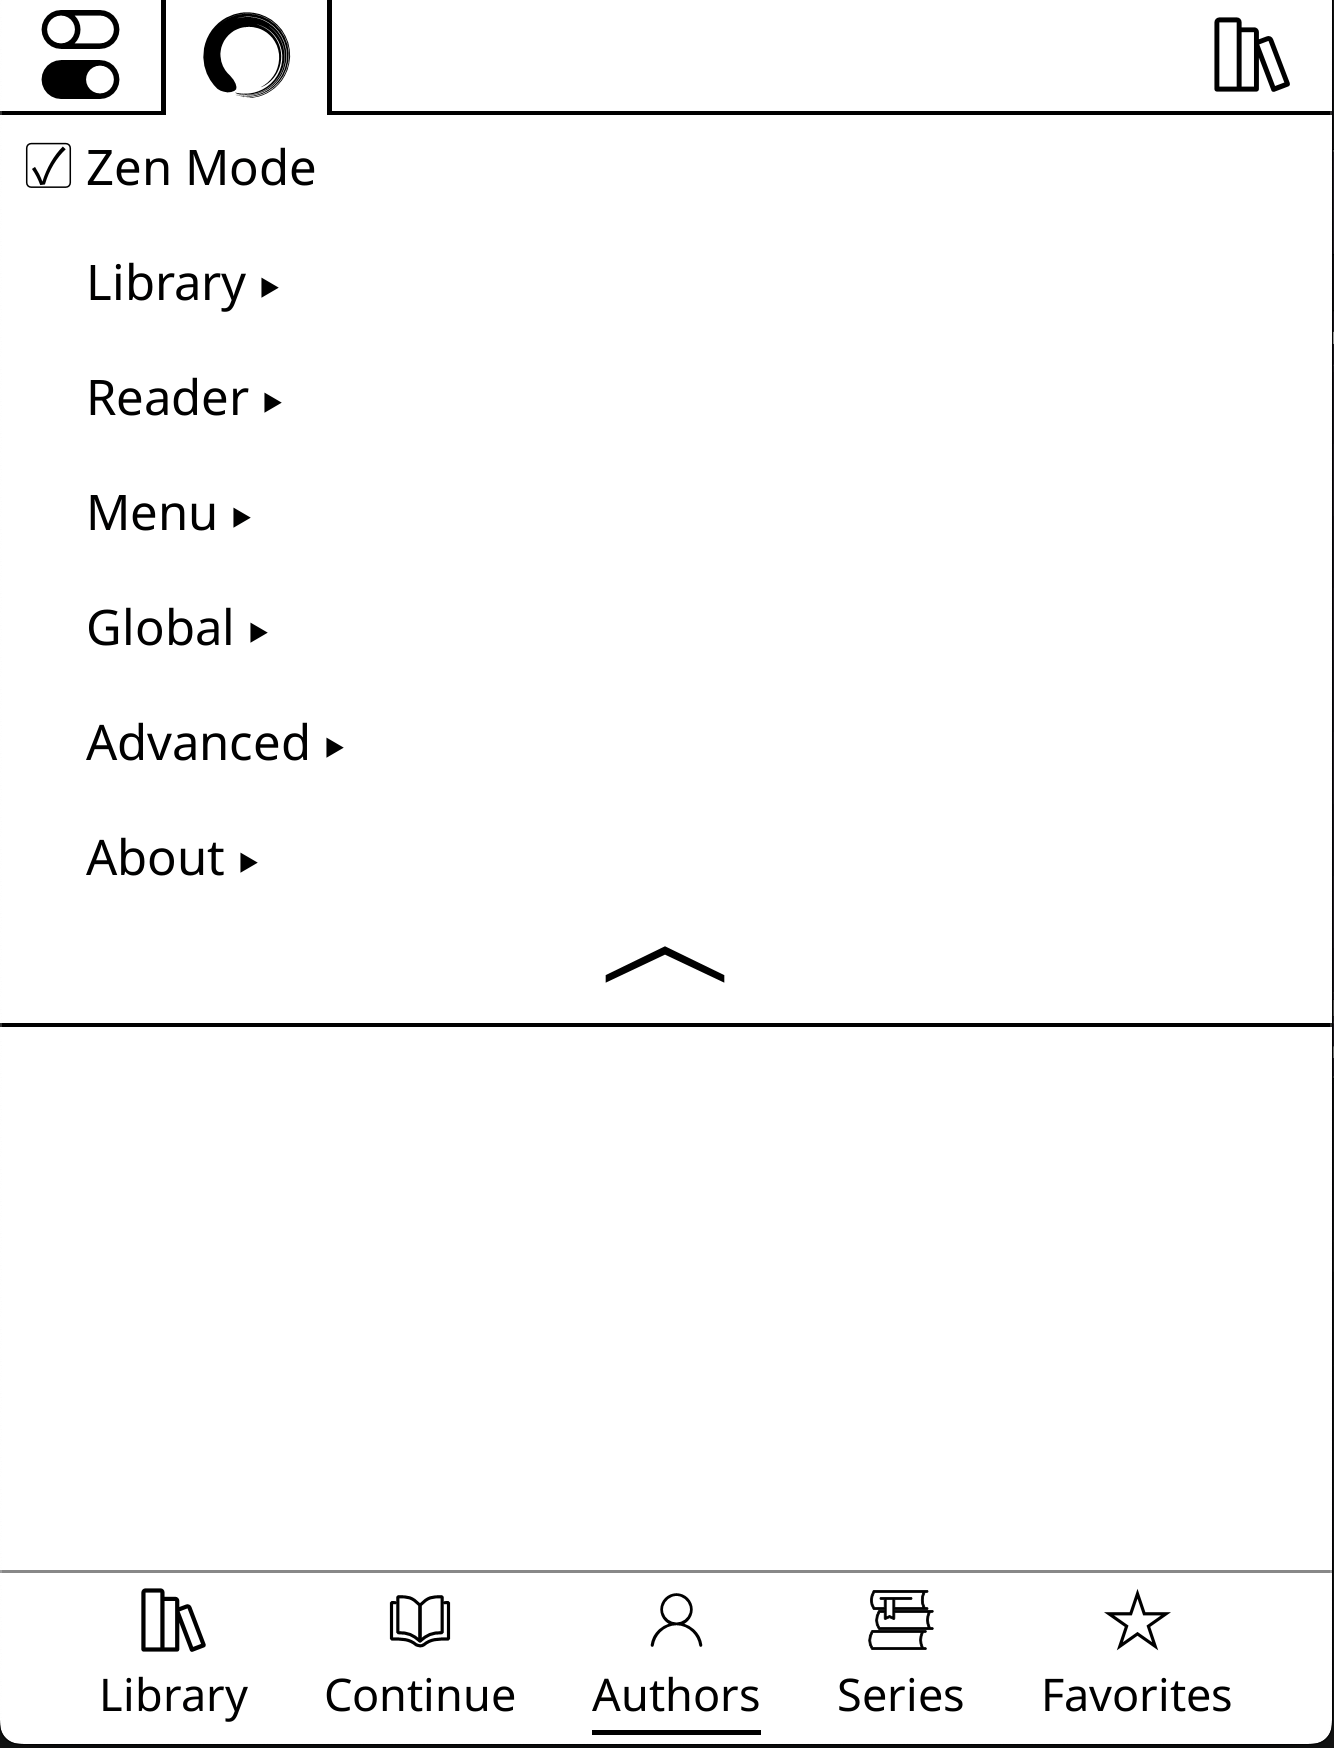
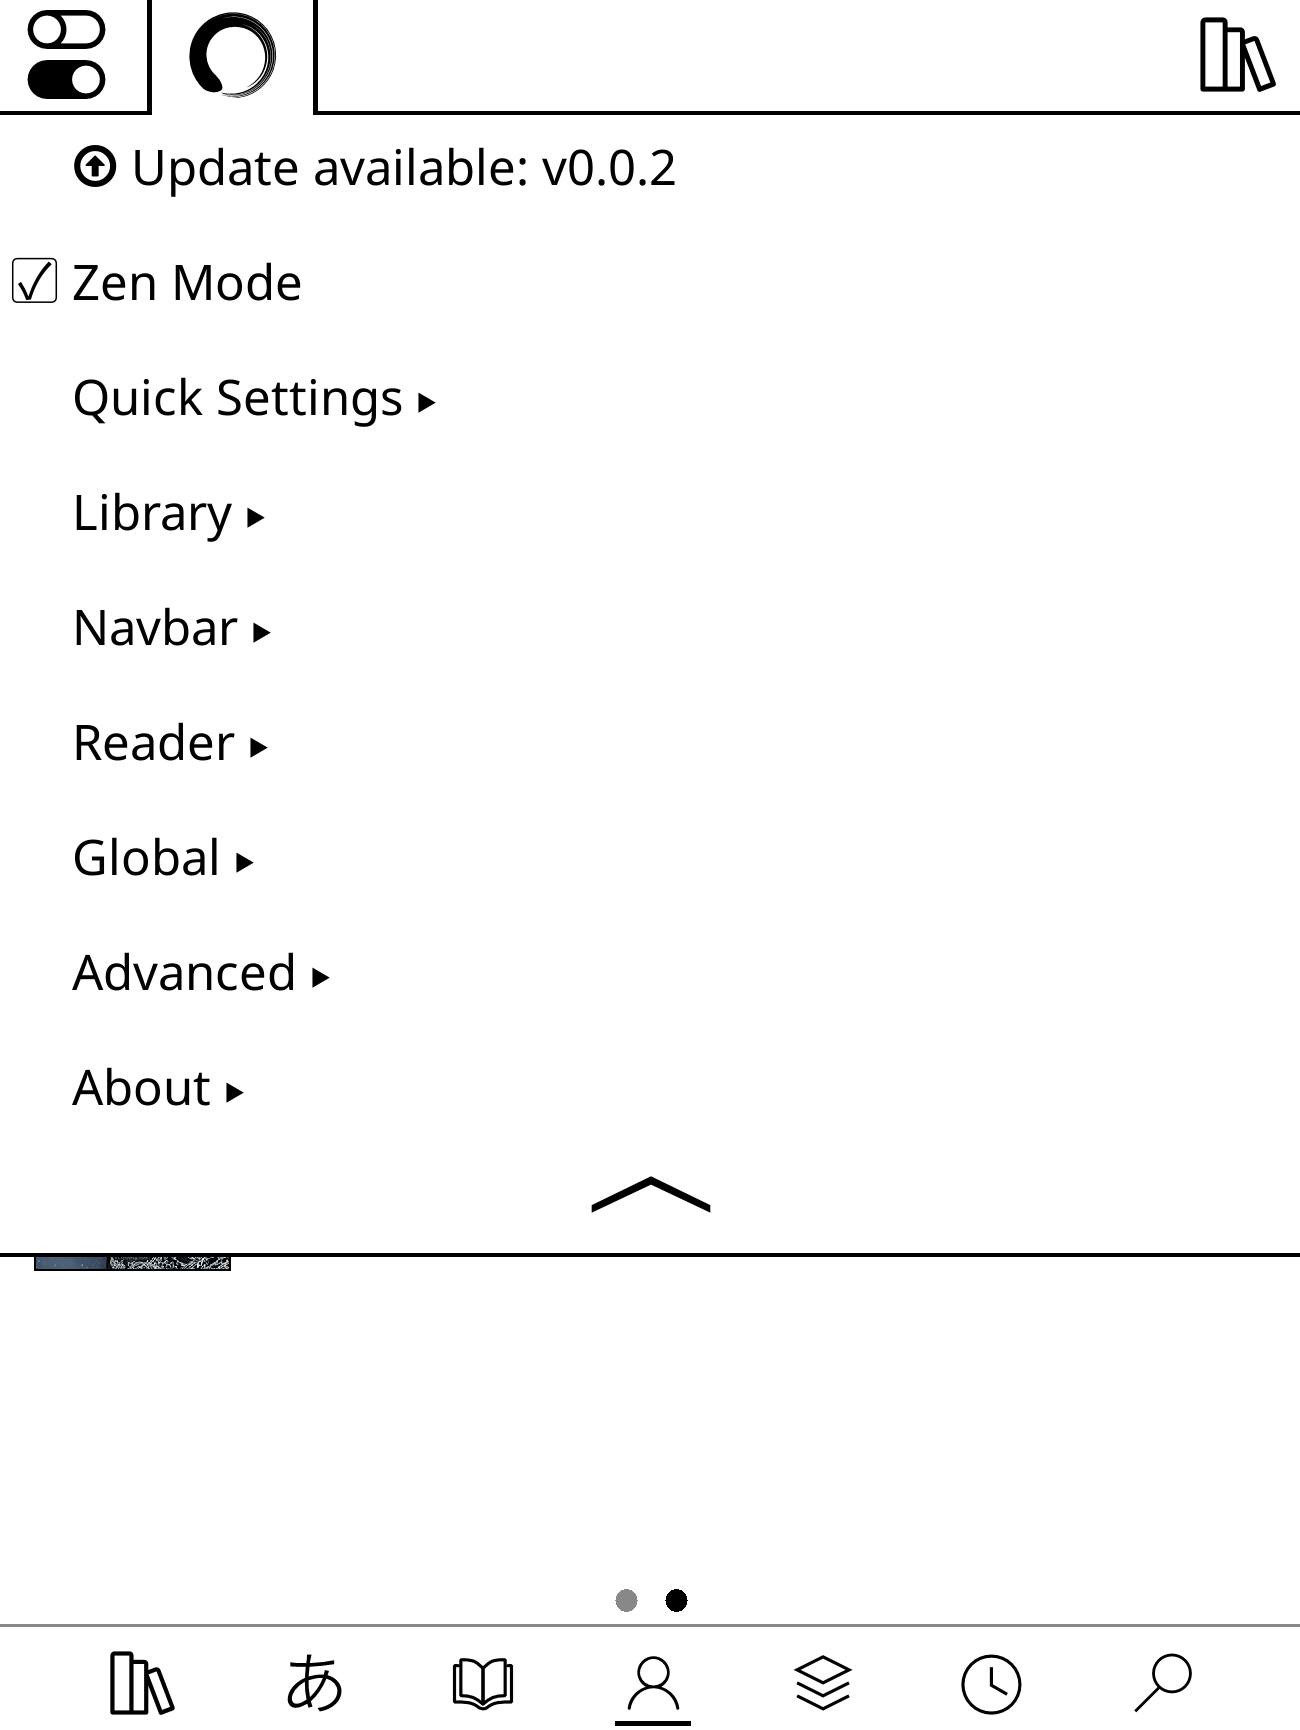
update readme

diff --git a/README.md b/README.md
@@ -7,13 +7,13 @@
 
 <h1 align="center">Zen UI</h1>
 
-A clean and minimal UI for [KOReader](https://github.com/koreader/koreader). Zen UI removes visual clutter and replaces it with a streamlined, intuitive, and distraction-free e-reader experience.
+<p align="center">A clean, minimal UI for KOReader. </p>
 
 ## Philosophy
 
-Zen UI is built on one idea: **less is more.** Every feature either removes noise or adds something genuinely useful. All settings are conveniently organized in one place. The minimal UI loads fast, stays out of the way, and aims to make your reading more enjoyable.  
+Zen UI is built around a simple idea: less is more. Everything in Zen UI was meticulously designed either to remove clutter or add clear value. The interface stays fast, light, and focused on making reading more enjoyable.
 
-Throughout development, three things were non-negotiable: **performance**, **stability**, and **battery life**. Patches are applied only when their feature is enabled. On e-ink devices where every refresh costs power and every frame counts, that matters.
+Throughout development, three things were non-negotiable: **performance**, **stability**, and **ease of use**. Every feature was tuned for battery efficiency and fluid responsiveness.
 
 ## Speed & Performance
 
@@ -21,53 +21,58 @@ Zen UI is built to be lightweight and efficient. Tested with libraries containin
 
 ## Features
 
-### Zen Mode
+### Quick Settings Panel
+A swipe-down menu accessible anywhere containing all the controls you frequently use — brightness, warmth, WiFi, night mode, sleep, rotation, and more. Fully configurable.
 
-Strips down the default KOReader interfaces to their bare essentials.
+<img src="./images/quickstart/onboarding/quicksettings.png" width="500" alt="Quick Settings">
 
-<img src="./images/quickstart/onboarding/zen_mode.png" width="175" alt="Zen Mode">
+### Library
+<div style="display: flex; gap: 10px; justify-content: center;">
+      <img src="./images/quickstart/onboarding/library_covers_full.png" width="350" height="auto" alt="Library Covers">
+      <img src="./images/quickstart/onboarding/library_list_full.png" width="350" height="auto" alt="Library List">
+</div>
+
+- Clean mosaic and list view options maximizing the size of your book covers with many options
+- Book cover gallery for folder thumbnails
+- Configurable sorting, items per page, and landscape/portrait layout
+- Zen pagination bar: A subtle, minimal page progress indicator
+- A streamlined context menu in the file browser. Tap and hold to quickly access details, fullscreen cover art, read status and more.
+
+<div style="display: flex; gap: 10px; justify-content: center;">
+<img src="./images/quickstart/onboarding/context_menu.png" width="350" height="auto" alt="Context Menu">
+<img src="./images/quickstart/onboarding/library_context.png" width="350" height="auto" alt="Library Context">
+</div>
 
 ### Bottom Navigation Bar
 A clean, tab-based navigation bar at the bottom of the file browser. Configurable tabs (Library, Manga, Favorites, Authors, History, Collections, and more), with optional labels, custom icons, and sortable layout.
 
 <img src="./images/quickstart/onboarding/navbar.png" width="500" alt="Navigation Bar">
 
-### Quick Settings Panel
-A swipe-down panel accessible everywhere for the controls you actually use — brightness, warmth, WiFi, night mode, sleep, rotation, and more. Fully configurable: reorder, show/hide individual buttons.
+### Zen Mode
 
-<img src="./images/quickstart/onboarding/quicksettings.png" width="500" alt="Quick Settings">
+Strips down the default KOReader interfaces to their bare essentials. - Hides all the default menus from KOReader leaving only a single unified Zen UI settings tab.
+
+<img src="./images/quickstart/onboarding/zen_mode.png" width="175" alt="Zen Mode">
+
 
 ### Custom Status Bars
-A minimal status bar in the reader and a more extensive one in the Filebrowser. Shows only what you want: time, battery, progress, disk space, RAM — all optional and individually toggled.
+A minimal status bar in the reader and a more simple yet more detailed one in the Filebrowser. Show only what you want: time, battery, disk space, custom text — all optional and individually toggled.
 
 <img src="./images/quickstart/onboarding/status_bar.png" width="500" alt="Status Bar">
 
-### File Browser Improvements
-- Cover images as folder thumbnails
-- Clean mosaic and list view options with configurable density
-- Hide the "up folder" entry for a cleaner look
-- Remove underlines from file list items
-- Configurable sort order, items per page, and landscape/portrait layout
-- Zen pagination bar: A subtle, minimal page progress indicator — no numbers, no noise.
-- A streamlined context menu in the file browser with quick access to read status, favorites, move, rename, and delete (optional).
-
-<img src="./images/quickstart/onboarding/library_covers_full.png" width="500" alt="Library Covers">
-<img src="./images/quickstart/onboarding/library_list_full.png" width="500" alt="Library List">
-
-<img src="./images/quickstart/onboarding/context_menu.png" width="500" alt="Context Menu">
-<img src="./images/quickstart/onboarding/library_context.png" width="500" alt="Library Context">
-
 ### Reader Improvements
-- An unobtrusive clock overlay inside the reader. Toggle 12/24-hour format independently of the system setting.
-- Disable bottom menu, prevent unwanted changes to font size, margin etc
+- Custom page browser (similar to Kindle's) for scrubbing through pages, searching the book, quickly changing the font size.
+- Disable bottom menu, prevent unwanted changes to font size, 
+- Margin gaurd preventing accidentally gestures while holding the edge of the device by it's touchscreen.
+- Preset footer progress bars. Pick from a hadful of predesigned reader progress bars or create and save your own. Switch presets with a single tap.
 
 <img src="./images/quickstart/onboarding/reader.png" width="500" alt="Reader">
 
-### Built-in Updater
-Check for and install new Zen UI releases directly from the settings menu, without leaving KOReader.
-
-## Unified Settings Tab 
+## Unified Settings 
 - Pulled the most important settings from various locations into a single, more streamlined settings tab
+- Settings are grouped by feature area (File Browser, Navbar, Quick Settings, Status Bar, Reader).
+- Most features can be toggled independently, some reasonable defaults have been selected.
+- Update Zen UI directly from settings without ever leaving KOReader or plugging in to a computer.
 
 <img src="./images/quickstart/onboarding/zen_ui_settings.png" width="500" alt="Zen UI Settings">
 
@@ -90,10 +95,6 @@ Check for and install new Zen UI releases directly from the settings menu, witho
 5. Open **Zen UI Settings** from the file browser menu or the top menu to configure features.
 
 > The final path should look like: `.../plugins/zen_ui.koplugin/main.lua`  
-
-## Settings
-
-Settings are grouped by feature area (File Browser, Navbar, Quick Settings, Status Bar, Reader). Most features can be toggled independently, some reasonable defaults have been selected. Changes that require a restart will prompt you automatically.
 
 ## Localization
 
@@ -136,7 +137,7 @@ Bug reports, feature requests, translations, and code contributions are all welc
 Please follow these guidelines:
 
 - **One feature per PR** - Keep pull requests focused on a single feature or fix
-- **Review AI-generated code** - If using AI tools, all code must be thoroughly reviewed and tested before submitting
+- **Review AI-generated code** - If using AI tools, all code must be thoroughly reviewed and tested before submitting (this should happen anyway but even moreso for AI generated code)
 - **Maintain consistency** - New code must align with the project's existing style, theme, and overall user experience
 
 ## Security
